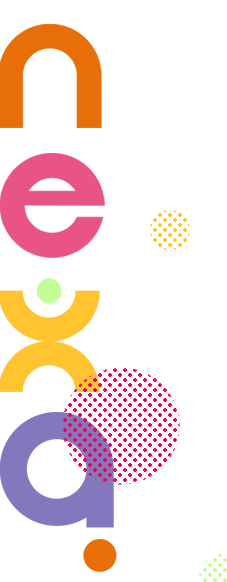
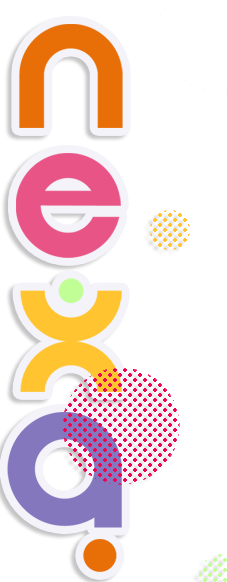
Editiing the modal form

Changed region(s): [[0.0, 0.0309, 0.5551, 1.0]]

diff --git a/index.html b/index.html
@@ -128,24 +128,11 @@
         <div class="container">
             <div class="row align-items-center justify-content-between">
                 <div class="col-xl-6 col-md-6">
-                    <!-- <div class="banner_text">
+                    <div class="banner_text">
                         <div class="banner_text_iner text-center">
                             <h2>With <span> your  Help</span> </h2>
                             <h3>We can build the Foundations of a mentally in Sane Africa</h3>
                             <a href="#" class="btn_1">Join Us<i class="ti-angle-right"></i> </a>
-                        </div>
-                    </div> -->
-                    <div id="carouselExampleSlidesOnly" class="carousel slide carousel-fade" data-ride="carousel">
-                        <div class="carousel-inner">
-                            <div class="carousel-item active">
-                                <img src="..." class="d-block w-100" alt="...">
-                            </div>
-                            <div class="carousel-item">
-                                <img src="..." class="d-block w-100" alt="...">
-                            </div>
-                            <div class="carousel-item">
-                                <img src="..." class="d-block w-100" alt="...">
-                            </div>
                         </div>
                     </div>
                 </div>
@@ -153,6 +140,19 @@
                     <div class="banner_bg">
                         <img src="img/banner_img.png" alt="banner">
                     </div>
+                    <!-- <div id="carouselExampleSlidesOnly" class="carousel slide carousel-fade" data-ride="carousel">
+                        <div class="carousel-inner">
+                            <div class="carousel-item active">
+                                <img src="img/1.jpg" class="d-block w-100" alt="...">
+                            </div>
+                            <div class="carousel-item">
+                                <img src="img/2.jpg" class="d-block w-100" alt="...">
+                            </div>
+                            <div class="carousel-item">
+                                <img src="img/3.jpg" class="d-block w-100" alt="...">
+                            </div>
+                        </div>
+                    </div> -->
                 </div>
             </div>
         </div>

diff --git a/involved.html b/involved.html
@@ -129,8 +129,8 @@
                 <div class="col-lg-12">
                     <div class="breadcrumb_iner text-center">
                         <div class="breadcrumb_iner_item">
-                            <h2>contact us</h2>
-                            <p>Home<span>//</span>contact us</p>
+                            <h2>Get Involved</h2>
+                            <p>Home<span>//</span>Get Involved</p>
                         </div>
                     </div>
                 </div>
@@ -158,7 +158,7 @@
                         </div>
                         <div class="input-group-icon mt-10">
                             <div class="icon"><i class="fa fa-thumb-tack" aria-hidden="true"></i></div>
-                            <input type="text" name="lastname" placeholder="PLast Name" onfocus="this.placeholder = ''" onblur="this.placeholder = 'Last Name'" required class="single-input">
+                            <input type="text" name="lastname" placeholder="Last Name" onfocus="this.placeholder = ''" onblur="this.placeholder = 'Last Name'" required class="single-input">
                         </div>
                         <div class="input-group-icon mt-10">
                             <div class="icon"><i class="fa fa-thumb-tack" aria-hidden="true"></i></div>
@@ -176,7 +176,7 @@
                             <div class="icon"><i class="fa fa-thumb-tack" aria-hidden="true"></i></div>
                             <input type="password" name="password" placeholder="Password" onfocus="this.placeholder = ''" onblur="this.placeholder = 'Password'" required class="single-input">
                         </div>
-                        <div class="form-group mt-3">
+                        <div class="form-group mt-10">
                             <button type="submit" class="button button-contactForm btn_4">SUBMIT</button>
                         </div>
                     </form>

diff --git a/css/style.css b/css/style.css
@@ -9151,7 +9151,7 @@ h6 {
     width: 96.05px;
     float: left;
     margin-left: -70px;
-    box-shadow: 0px 0px 40px #d889ae;
+    box-shadow: 0px 0px 40px #ffffff;
 }
 
 .btn-white {
